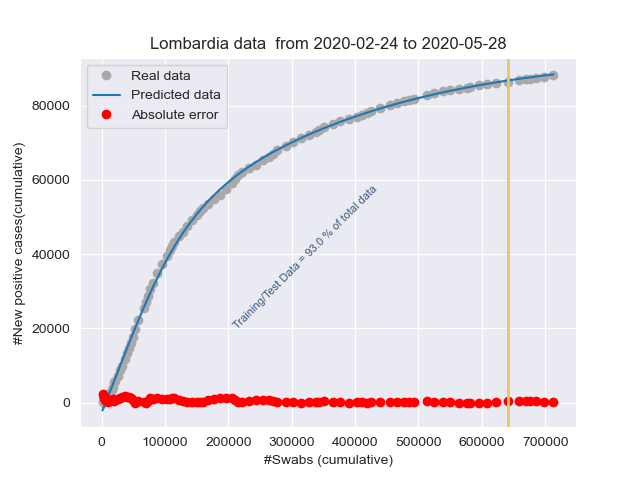
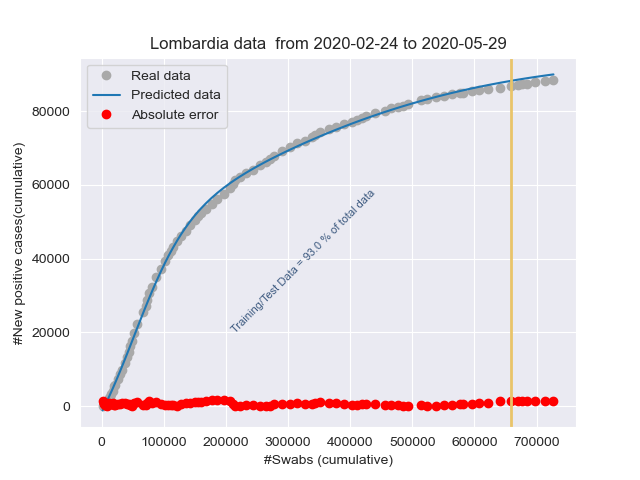
Add files via upload

diff --git a/stat_Italy.html b/stat_Italy.html
@@ -1,1 +1,1 @@
-<!DOCTYPE html><html lang="it"><head><title>Results</title><meta charset="utf-8"><meta name="viewport" content="width=device-width, initial-scale=1"><link rel="stylesheet" href="bootstrap.min.css"><script src="https://ajax.googleapis.com/ajax/libs/jquery/3.4.1/jquery.min.js"></script><script src="https://maxcdn.bootstrapcdn.com/bootstrap/3.4.1/js/bootstrap.min.js"></script></head><body><h3>Day: 2020-05-28</h3><p class="lead my-3">New positive cases: <b>593</b></p><p class="lead my-3">Number of swabs: <b>75893.0</b></p><p class="lead my-3">Postive cases/Swabs: <b>0.78 %</b></p><p class="lead my-3">Number of people admitted to Intensive care: <b>489</b></p><p class="lead my-3">Number of recovered people: <b>3503.0</b></p><p class="lead my-3">Number of dead people: <b>70.0</b></p></body></html>
+<!DOCTYPE html><html lang="it"><head><title>Results</title><meta charset="utf-8"><meta name="viewport" content="width=device-width, initial-scale=1"><link rel="stylesheet" href="bootstrap.min.css"><script src="https://ajax.googleapis.com/ajax/libs/jquery/3.4.1/jquery.min.js"></script><script src="https://maxcdn.bootstrapcdn.com/bootstrap/3.4.1/js/bootstrap.min.js"></script></head><body><h3>Day: 2020-05-29</h3><p class="lead my-3">New positive cases: <b>516</b></p><p class="lead my-3">Number of swabs: <b>72135.0</b></p><p class="lead my-3">Postive cases/Swabs: <b>0.72 %</b></p><p class="lead my-3">Number of people admitted to Intensive care: <b>475</b></p><p class="lead my-3">Number of recovered people: <b>2240.0</b></p><p class="lead my-3">Number of dead people: <b>87.0</b></p></body></html>

diff --git a/stat_Lombardia.html b/stat_Lombardia.html
@@ -1,1 +1,1 @@
-<!DOCTYPE html><html lang="it"><head><title>Results</title><meta charset="utf-8"><meta name="viewport" content="width=device-width, initial-scale=1"><link rel="stylesheet" href="bootstrap.min.css"><script src="https://ajax.googleapis.com/ajax/libs/jquery/3.4.1/jquery.min.js"></script><script src="https://maxcdn.bootstrapcdn.com/bootstrap/3.4.1/js/bootstrap.min.js"></script></head><body><h3>Day: 2020-05-28</h3><p class="lead my-3">New positive cases: <b>382</b></p><p class="lead my-3">Number of swabs: <b>15507.0</b></p><p class="lead my-3">Postive cases/Swabs: <b>2.46 %</b></p><p class="lead my-3">Number of people admitted to Intensive care: <b>173</b></p><p class="lead my-3">Number of recovered people: <b>1486.0</b></p><p class="lead my-3">Number of dead people: <b>20.0</b></p></body></html>
+<!DOCTYPE html><html lang="it"><head><title>Results</title><meta charset="utf-8"><meta name="viewport" content="width=device-width, initial-scale=1"><link rel="stylesheet" href="bootstrap.min.css"><script src="https://ajax.googleapis.com/ajax/libs/jquery/3.4.1/jquery.min.js"></script><script src="https://maxcdn.bootstrapcdn.com/bootstrap/3.4.1/js/bootstrap.min.js"></script></head><body><h3>Day: 2020-05-29</h3><p class="lead my-3">New positive cases: <b>354</b></p><p class="lead my-3">Number of swabs: <b>14078.0</b></p><p class="lead my-3">Postive cases/Swabs: <b>2.51 %</b></p><p class="lead my-3">Number of people admitted to Intensive care: <b>173</b></p><p class="lead my-3">Number of recovered people: <b>546.0</b></p><p class="lead my-3">Number of dead people: <b>38.0</b></p></body></html>

diff --git a/stat_Emilia-Romagna.html b/stat_Emilia-Romagna.html
@@ -1,1 +1,1 @@
-<!DOCTYPE html><html lang="it"><head><title>Results</title><meta charset="utf-8"><meta name="viewport" content="width=device-width, initial-scale=1"><link rel="stylesheet" href="bootstrap.min.css"><script src="https://ajax.googleapis.com/ajax/libs/jquery/3.4.1/jquery.min.js"></script><script src="https://maxcdn.bootstrapcdn.com/bootstrap/3.4.1/js/bootstrap.min.js"></script></head><body><h3>Day: 2020-05-28</h3><p class="lead my-3">New positive cases: <b>74</b></p><p class="lead my-3">Number of swabs: <b>9128.0</b></p><p class="lead my-3">Postive cases/Swabs: <b>0.81 %</b></p><p class="lead my-3">Number of people admitted to Intensive care: <b>77</b></p><p class="lead my-3">Number of recovered people: <b>311.0</b></p><p class="lead my-3">Number of dead people: <b>11.0</b></p></body></html>
+<!DOCTYPE html><html lang="it"><head><title>Results</title><meta charset="utf-8"><meta name="viewport" content="width=device-width, initial-scale=1"><link rel="stylesheet" href="bootstrap.min.css"><script src="https://ajax.googleapis.com/ajax/libs/jquery/3.4.1/jquery.min.js"></script><script src="https://maxcdn.bootstrapcdn.com/bootstrap/3.4.1/js/bootstrap.min.js"></script></head><body><h3>Day: 2020-05-29</h3><p class="lead my-3">New positive cases: <b>38</b></p><p class="lead my-3">Number of swabs: <b>6213.0</b></p><p class="lead my-3">Postive cases/Swabs: <b>0.61 %</b></p><p class="lead my-3">Number of people admitted to Intensive care: <b>76</b></p><p class="lead my-3">Number of recovered people: <b>216.0</b></p><p class="lead my-3">Number of dead people: <b>8.0</b></p></body></html>

diff --git a/stat_Piemonte.html b/stat_Piemonte.html
@@ -1,1 +1,1 @@
-<!DOCTYPE html><html lang="it"><head><title>Results</title><meta charset="utf-8"><meta name="viewport" content="width=device-width, initial-scale=1"><link rel="stylesheet" href="bootstrap.min.css"><script src="https://ajax.googleapis.com/ajax/libs/jquery/3.4.1/jquery.min.js"></script><script src="https://maxcdn.bootstrapcdn.com/bootstrap/3.4.1/js/bootstrap.min.js"></script></head><body><h3>Day: 2020-05-28</h3><p class="lead my-3">New positive cases: <b>58</b></p><p class="lead my-3">Number of swabs: <b>5787.0</b></p><p class="lead my-3">Postive cases/Swabs: <b>1.0 %</b></p><p class="lead my-3">Number of people admitted to Intensive care: <b>64</b></p><p class="lead my-3">Number of recovered people: <b>440.0</b></p><p class="lead my-3">Number of dead people: <b>10.0</b></p></body></html>
+<!DOCTYPE html><html lang="it"><head><title>Results</title><meta charset="utf-8"><meta name="viewport" content="width=device-width, initial-scale=1"><link rel="stylesheet" href="bootstrap.min.css"><script src="https://ajax.googleapis.com/ajax/libs/jquery/3.4.1/jquery.min.js"></script><script src="https://maxcdn.bootstrapcdn.com/bootstrap/3.4.1/js/bootstrap.min.js"></script></head><body><h3>Day: 2020-05-29</h3><p class="lead my-3">New positive cases: <b>56</b></p><p class="lead my-3">Number of swabs: <b>5139.0</b></p><p class="lead my-3">Postive cases/Swabs: <b>1.09 %</b></p><p class="lead my-3">Number of people admitted to Intensive care: <b>61</b></p><p class="lead my-3">Number of recovered people: <b>457.0</b></p><p class="lead my-3">Number of dead people: <b>13.0</b></p></body></html>

diff --git a/stat_Lazio.html b/stat_Lazio.html
@@ -1,1 +1,1 @@
-<!DOCTYPE html><html lang="it"><head><title>Results</title><meta charset="utf-8"><meta name="viewport" content="width=device-width, initial-scale=1"><link rel="stylesheet" href="bootstrap.min.css"><script src="https://ajax.googleapis.com/ajax/libs/jquery/3.4.1/jquery.min.js"></script><script src="https://maxcdn.bootstrapcdn.com/bootstrap/3.4.1/js/bootstrap.min.js"></script></head><body><h3>Day: 2020-05-28</h3><p class="lead my-3">New positive cases: <b>21</b></p><p class="lead my-3">Number of swabs: <b>3706.0</b></p><p class="lead my-3">Postive cases/Swabs: <b>0.57 %</b></p><p class="lead my-3">Number of people admitted to Intensive care: <b>64</b></p><p class="lead my-3">Number of recovered people: <b>97.0</b></p><p class="lead my-3">Number of dead people: <b>7.0</b></p></body></html>
+<!DOCTYPE html><html lang="it"><head><title>Results</title><meta charset="utf-8"><meta name="viewport" content="width=device-width, initial-scale=1"><link rel="stylesheet" href="bootstrap.min.css"><script src="https://ajax.googleapis.com/ajax/libs/jquery/3.4.1/jquery.min.js"></script><script src="https://maxcdn.bootstrapcdn.com/bootstrap/3.4.1/js/bootstrap.min.js"></script></head><body><h3>Day: 2020-05-29</h3><p class="lead my-3">New positive cases: <b>16</b></p><p class="lead my-3">Number of swabs: <b>3274.0</b></p><p class="lead my-3">Postive cases/Swabs: <b>0.49 %</b></p><p class="lead my-3">Number of people admitted to Intensive care: <b>59</b></p><p class="lead my-3">Number of recovered people: <b>245.0</b></p><p class="lead my-3">Number of dead people: <b>13.0</b></p></body></html>

diff --git a/stat_Liguria.html b/stat_Liguria.html
@@ -1,1 +1,1 @@
-<!DOCTYPE html><html lang="it"><head><title>Results</title><meta charset="utf-8"><meta name="viewport" content="width=device-width, initial-scale=1"><link rel="stylesheet" href="bootstrap.min.css"><script src="https://ajax.googleapis.com/ajax/libs/jquery/3.4.1/jquery.min.js"></script><script src="https://maxcdn.bootstrapcdn.com/bootstrap/3.4.1/js/bootstrap.min.js"></script></head><body><h3>Day: 2020-05-28</h3><p class="lead my-3">New positive cases: <b>16</b></p><p class="lead my-3">Number of swabs: <b>1790.0</b></p><p class="lead my-3">Postive cases/Swabs: <b>0.89 %</b></p><p class="lead my-3">Number of people admitted to Intensive care: <b>13</b></p><p class="lead my-3">Number of recovered people: <b>133.0</b></p><p class="lead my-3">Number of dead people: <b>7.0</b></p></body></html>
+<!DOCTYPE html><html lang="it"><head><title>Results</title><meta charset="utf-8"><meta name="viewport" content="width=device-width, initial-scale=1"><link rel="stylesheet" href="bootstrap.min.css"><script src="https://ajax.googleapis.com/ajax/libs/jquery/3.4.1/jquery.min.js"></script><script src="https://maxcdn.bootstrapcdn.com/bootstrap/3.4.1/js/bootstrap.min.js"></script></head><body><h3>Day: 2020-05-29</h3><p class="lead my-3">New positive cases: <b>14</b></p><p class="lead my-3">Number of swabs: <b>1548.0</b></p><p class="lead my-3">Postive cases/Swabs: <b>0.9 %</b></p><p class="lead my-3">Number of people admitted to Intensive care: <b>13</b></p><p class="lead my-3">Number of recovered people: <b>158.0</b></p><p class="lead my-3">Number of dead people: <b>7.0</b></p></body></html>

diff --git a/stat_Veneto.html b/stat_Veneto.html
@@ -1,1 +1,1 @@
-<!DOCTYPE html><html lang="it"><head><title>Results</title><meta charset="utf-8"><meta name="viewport" content="width=device-width, initial-scale=1"><link rel="stylesheet" href="bootstrap.min.css"><script src="https://ajax.googleapis.com/ajax/libs/jquery/3.4.1/jquery.min.js"></script><script src="https://maxcdn.bootstrapcdn.com/bootstrap/3.4.1/js/bootstrap.min.js"></script></head><body><h3>Day: 2020-05-28</h3><p class="lead my-3">New positive cases: <b>12</b></p><p class="lead my-3">Number of swabs: <b>15433.0</b></p><p class="lead my-3">Postive cases/Swabs: <b>0.08 %</b></p><p class="lead my-3">Number of people admitted to Intensive care: <b>9</b></p><p class="lead my-3">Number of recovered people: <b>271.0</b></p><p class="lead my-3">Number of dead people: <b>3.0</b></p></body></html>
+<!DOCTYPE html><html lang="it"><head><title>Results</title><meta charset="utf-8"><meta name="viewport" content="width=device-width, initial-scale=1"><link rel="stylesheet" href="bootstrap.min.css"><script src="https://ajax.googleapis.com/ajax/libs/jquery/3.4.1/jquery.min.js"></script><script src="https://maxcdn.bootstrapcdn.com/bootstrap/3.4.1/js/bootstrap.min.js"></script></head><body><h3>Day: 2020-05-29</h3><p class="lead my-3">New positive cases: <b>9</b></p><p class="lead my-3">Number of swabs: <b>12925.0</b></p><p class="lead my-3">Postive cases/Swabs: <b>0.07 %</b></p><p class="lead my-3">Number of people admitted to Intensive care: <b>7</b></p><p class="lead my-3">Number of recovered people: <b>177.0</b></p><p class="lead my-3">Number of dead people: <b>8.0</b></p></body></html>

diff --git a/stat_Puglia.html b/stat_Puglia.html
@@ -1,1 +1,1 @@
-<!DOCTYPE html><html lang="it"><head><title>Results</title><meta charset="utf-8"><meta name="viewport" content="width=device-width, initial-scale=1"><link rel="stylesheet" href="bootstrap.min.css"><script src="https://ajax.googleapis.com/ajax/libs/jquery/3.4.1/jquery.min.js"></script><script src="https://maxcdn.bootstrapcdn.com/bootstrap/3.4.1/js/bootstrap.min.js"></script></head><body><h3>Day: 2020-05-28</h3><p class="lead my-3">New positive cases: <b>2</b></p><p class="lead my-3">Number of swabs: <b>2447.0</b></p><p class="lead my-3">Postive cases/Swabs: <b>0.08 %</b></p><p class="lead my-3">Number of people admitted to Intensive care: <b>16</b></p><p class="lead my-3">Number of recovered people: <b>119.0</b></p><p class="lead my-3">Number of dead people: <b>1.0</b></p></body></html>
+<!DOCTYPE html><html lang="it"><head><title>Results</title><meta charset="utf-8"><meta name="viewport" content="width=device-width, initial-scale=1"><link rel="stylesheet" href="bootstrap.min.css"><script src="https://ajax.googleapis.com/ajax/libs/jquery/3.4.1/jquery.min.js"></script><script src="https://maxcdn.bootstrapcdn.com/bootstrap/3.4.1/js/bootstrap.min.js"></script></head><body><h3>Day: 2020-05-29</h3><p class="lead my-3">New positive cases: <b>1</b></p><p class="lead my-3">Number of swabs: <b>2642.0</b></p><p class="lead my-3">Postive cases/Swabs: <b>0.04 %</b></p><p class="lead my-3">Number of people admitted to Intensive care: <b>12</b></p><p class="lead my-3">Number of recovered people: <b>109.0</b></p><p class="lead my-3">Number of dead people: <b>4.0</b></p></body></html>

diff --git a/stat_Marche.html b/stat_Marche.html
@@ -1,1 +1,1 @@
-<!DOCTYPE html><html lang="it"><head><title>Results</title><meta charset="utf-8"><meta name="viewport" content="width=device-width, initial-scale=1"><link rel="stylesheet" href="bootstrap.min.css"><script src="https://ajax.googleapis.com/ajax/libs/jquery/3.4.1/jquery.min.js"></script><script src="https://maxcdn.bootstrapcdn.com/bootstrap/3.4.1/js/bootstrap.min.js"></script></head><body><h3>Day: 2020-05-28</h3><p class="lead my-3">New positive cases: <b>1</b></p><p class="lead my-3">Number of swabs: <b>1575.0</b></p><p class="lead my-3">Postive cases/Swabs: <b>0.06 %</b></p><p class="lead my-3">Number of people admitted to Intensive care: <b>13</b></p><p class="lead my-3">Number of recovered people: <b>104.0</b></p><p class="lead my-3">Number of dead people: <b>1.0</b></p></body></html>
+<!DOCTYPE html><html lang="it"><head><title>Results</title><meta charset="utf-8"><meta name="viewport" content="width=device-width, initial-scale=1"><link rel="stylesheet" href="bootstrap.min.css"><script src="https://ajax.googleapis.com/ajax/libs/jquery/3.4.1/jquery.min.js"></script><script src="https://maxcdn.bootstrapcdn.com/bootstrap/3.4.1/js/bootstrap.min.js"></script></head><body><h3>Day: 2020-05-29</h3><p class="lead my-3">New positive cases: <b>4</b></p><p class="lead my-3">Number of swabs: <b>1279.0</b></p><p class="lead my-3">Postive cases/Swabs: <b>0.31 %</b></p><p class="lead my-3">Number of people admitted to Intensive care: <b>9</b></p><p class="lead my-3">Number of recovered people: <b>9.0</b></p><p class="lead my-3">Number of dead people: <b>-11.0</b></p></body></html>

diff --git a/stat_Campania.html b/stat_Campania.html
@@ -1,1 +1,1 @@
-<!DOCTYPE html><html lang="it"><head><title>Results</title><meta charset="utf-8"><meta name="viewport" content="width=device-width, initial-scale=1"><link rel="stylesheet" href="bootstrap.min.css"><script src="https://ajax.googleapis.com/ajax/libs/jquery/3.4.1/jquery.min.js"></script><script src="https://maxcdn.bootstrapcdn.com/bootstrap/3.4.1/js/bootstrap.min.js"></script></head><body><h3>Day: 2020-05-28</h3><p class="lead my-3">New positive cases: <b>4</b></p><p class="lead my-3">Number of swabs: <b>3344.0</b></p><p class="lead my-3">Postive cases/Swabs: <b>0.12 %</b></p><p class="lead my-3">Number of people admitted to Intensive care: <b>6</b></p><p class="lead my-3">Number of recovered people: <b>134.0</b></p><p class="lead my-3">Number of dead people: <b>4.0</b></p></body></html>
+<!DOCTYPE html><html lang="it"><head><title>Results</title><meta charset="utf-8"><meta name="viewport" content="width=device-width, initial-scale=1"><link rel="stylesheet" href="bootstrap.min.css"><script src="https://ajax.googleapis.com/ajax/libs/jquery/3.4.1/jquery.min.js"></script><script src="https://maxcdn.bootstrapcdn.com/bootstrap/3.4.1/js/bootstrap.min.js"></script></head><body><h3>Day: 2020-05-29</h3><p class="lead my-3">New positive cases: <b>10</b></p><p class="lead my-3">Number of swabs: <b>4601.0</b></p><p class="lead my-3">Postive cases/Swabs: <b>0.22 %</b></p><p class="lead my-3">Number of people admitted to Intensive care: <b>7</b></p><p class="lead my-3">Number of recovered people: <b>35.0</b></p><p class="lead my-3">Number of dead people: <b>1.0</b></p></body></html>

diff --git a/stat_Toscana.html b/stat_Toscana.html
@@ -1,1 +1,1 @@
-<!DOCTYPE html><html lang="it"><head><title>Results</title><meta charset="utf-8"><meta name="viewport" content="width=device-width, initial-scale=1"><link rel="stylesheet" href="bootstrap.min.css"><script src="https://ajax.googleapis.com/ajax/libs/jquery/3.4.1/jquery.min.js"></script><script src="https://maxcdn.bootstrapcdn.com/bootstrap/3.4.1/js/bootstrap.min.js"></script></head><body><h3>Day: 2020-05-28</h3><p class="lead my-3">New positive cases: <b>4</b></p><p class="lead my-3">Number of swabs: <b>4020.0</b></p><p class="lead my-3">Postive cases/Swabs: <b>0.1 %</b></p><p class="lead my-3">Number of people admitted to Intensive care: <b>27</b></p><p class="lead my-3">Number of recovered people: <b>82.0</b></p><p class="lead my-3">Number of dead people: <b>2.0</b></p></body></html>
+<!DOCTYPE html><html lang="it"><head><title>Results</title><meta charset="utf-8"><meta name="viewport" content="width=device-width, initial-scale=1"><link rel="stylesheet" href="bootstrap.min.css"><script src="https://ajax.googleapis.com/ajax/libs/jquery/3.4.1/jquery.min.js"></script><script src="https://maxcdn.bootstrapcdn.com/bootstrap/3.4.1/js/bootstrap.min.js"></script></head><body><h3>Day: 2020-05-29</h3><p class="lead my-3">New positive cases: <b>2</b></p><p class="lead my-3">Number of swabs: <b>3365.0</b></p><p class="lead my-3">Postive cases/Swabs: <b>0.06 %</b></p><p class="lead my-3">Number of people admitted to Intensive care: <b>31</b></p><p class="lead my-3">Number of recovered people: <b>125.0</b></p><p class="lead my-3">Number of dead people: <b>2.0</b></p></body></html>

diff --git a/stat_Sicilia.html b/stat_Sicilia.html
@@ -1,1 +1,1 @@
-<!DOCTYPE html><html lang="it"><head><title>Results</title><meta charset="utf-8"><meta name="viewport" content="width=device-width, initial-scale=1"><link rel="stylesheet" href="bootstrap.min.css"><script src="https://ajax.googleapis.com/ajax/libs/jquery/3.4.1/jquery.min.js"></script><script src="https://maxcdn.bootstrapcdn.com/bootstrap/3.4.1/js/bootstrap.min.js"></script></head><body><h3>Day: 2020-05-28</h3><p class="lead my-3">New positive cases: <b>3</b></p><p class="lead my-3">Number of swabs: <b>2221.0</b></p><p class="lead my-3">Postive cases/Swabs: <b>0.14 %</b></p><p class="lead my-3">Number of people admitted to Intensive care: <b>8</b></p><p class="lead my-3">Number of recovered people: <b>176.0</b></p><p class="lead my-3">Number of dead people: <b>0.0</b></p></body></html>
+<!DOCTYPE html><html lang="it"><head><title>Results</title><meta charset="utf-8"><meta name="viewport" content="width=device-width, initial-scale=1"><link rel="stylesheet" href="bootstrap.min.css"><script src="https://ajax.googleapis.com/ajax/libs/jquery/3.4.1/jquery.min.js"></script><script src="https://maxcdn.bootstrapcdn.com/bootstrap/3.4.1/js/bootstrap.min.js"></script></head><body><h3>Day: 2020-05-29</h3><p class="lead my-3">New positive cases: <b>2</b></p><p class="lead my-3">Number of swabs: <b>3463.0</b></p><p class="lead my-3">Postive cases/Swabs: <b>0.06 %</b></p><p class="lead my-3">Number of people admitted to Intensive care: <b>7</b></p><p class="lead my-3">Number of recovered people: <b>10.0</b></p><p class="lead my-3">Number of dead people: <b>0.0</b></p></body></html>
